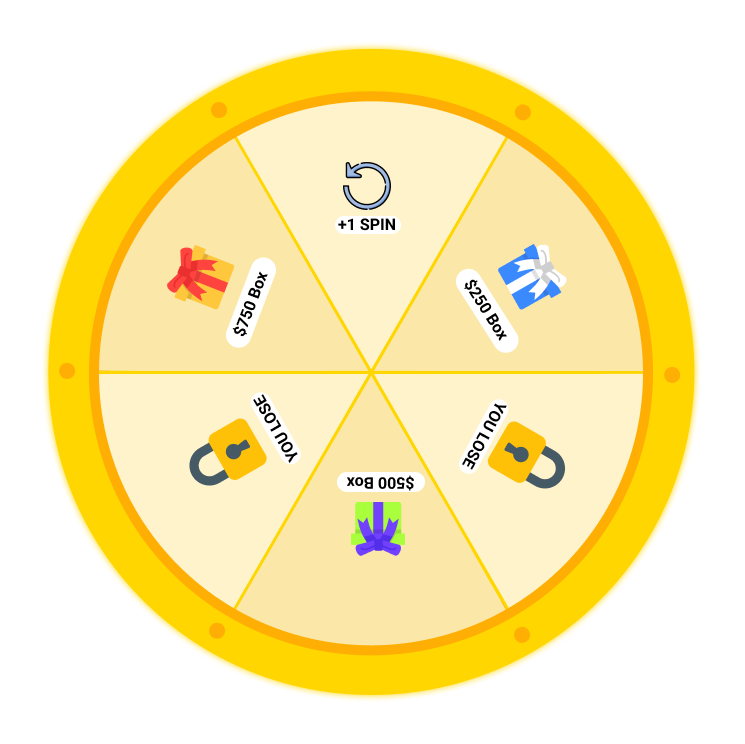
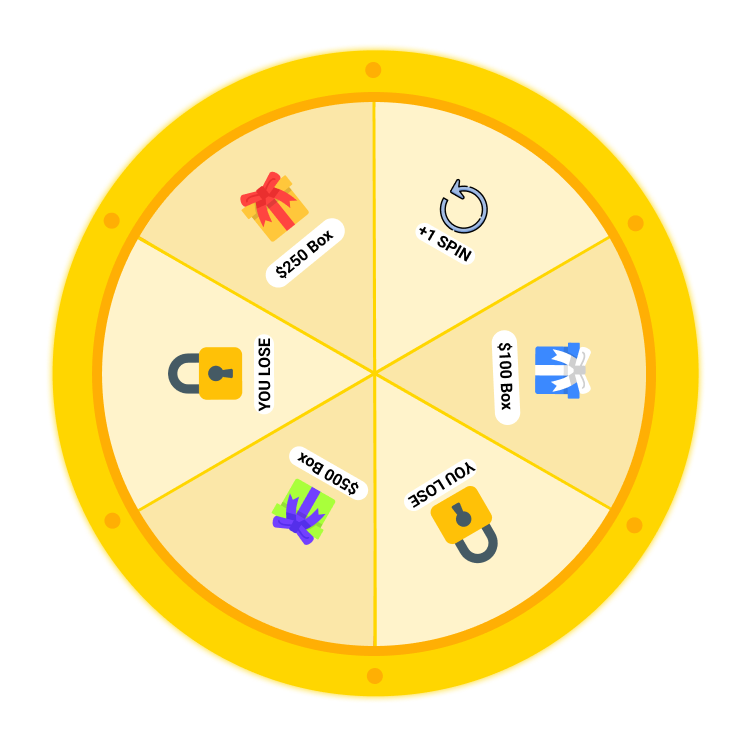
done

diff --git a/spinner/spinner-selection-250/index.html b/spinner/spinner-selection-250/index.html
@@ -77,14 +77,14 @@
 				<div data-step="1">
 					<img src="img/wow.png" alt="">
 					<h2 class="title">WoW...</h2>
-					<p class="text">You have won <span class="theme-color">$750 worth box</span>. Open the box to receive one of the special rewards</p>
+					<p class="text">You have won <span class="theme-color">$250 worth box</span>. Open the box to receive one of the special rewards</p>
 				</div>
 				<div data-step="2">
-					<h3 class="text">Choose a <span class="theme-color">brand</span> where you would like to spend your <span class="theme-color">$750</span></h3>
+					<h3 class="text">Choose a <span class="theme-color">brand</span> where you would like to spend your <span class="theme-color">$250</span></h3>
 				</div>
 				<div data-step="3">
 					<h2 class="title">Great Job!</h2>
-					<p><span class="theme-color">$750 <span class="brand-card"></span></span> is reserved for you. To claim your prize, please complete the next steps</p>
+					<p><span class="theme-color">$250 <span class="brand-card"></span></span> is reserved for you. To claim your prize, please complete the next steps</p>
 				</div>
 				<div data-step="4">
 					<h2 class="title">Steps</h2>
@@ -96,7 +96,7 @@
 							<p><strong>Step 2:</strong> Complete survey</p>
 						</li>
 						<li>
-							<p><strong>Step 3:</strong> Complete multiple offers to receive your <strong class="theme-color">$750 <span class="brand-card"></span>!</strong></p>
+							<p><strong>Step 3:</strong> Complete multiple offers to receive your <strong class="theme-color">$250 <span class="brand-card"></span>!</strong></p>
 						</li>
 					</ul>
 				</div>

diff --git a/spinner/spinner-selection-250/css/main.css b/spinner/spinner-selection-250/css/main.css
@@ -91,16 +91,16 @@
 	transform: rotate(0deg);
 }
 .roulette-circle > .spinner[data-roll="0"] {
-	transform: rotate(-30deg);
+	transform: rotate(-60deg);
 }
 .roulette-circle > .spinner[data-roll="1"] {
-	transform: rotate(3720deg);
+	transform: rotate(3690deg);
 }
 .roulette-circle > .spinner[data-roll="2"] {
-	transform: rotate(7200deg);
+	transform: rotate(7170deg);
 }
 .roulette-circle > .spinner[data-roll="3"] {
-	transform: rotate(10860deg);
+	transform: rotate(10830deg);
 }
 .roulette-circle > .spin-button {
 	position: absolute;
